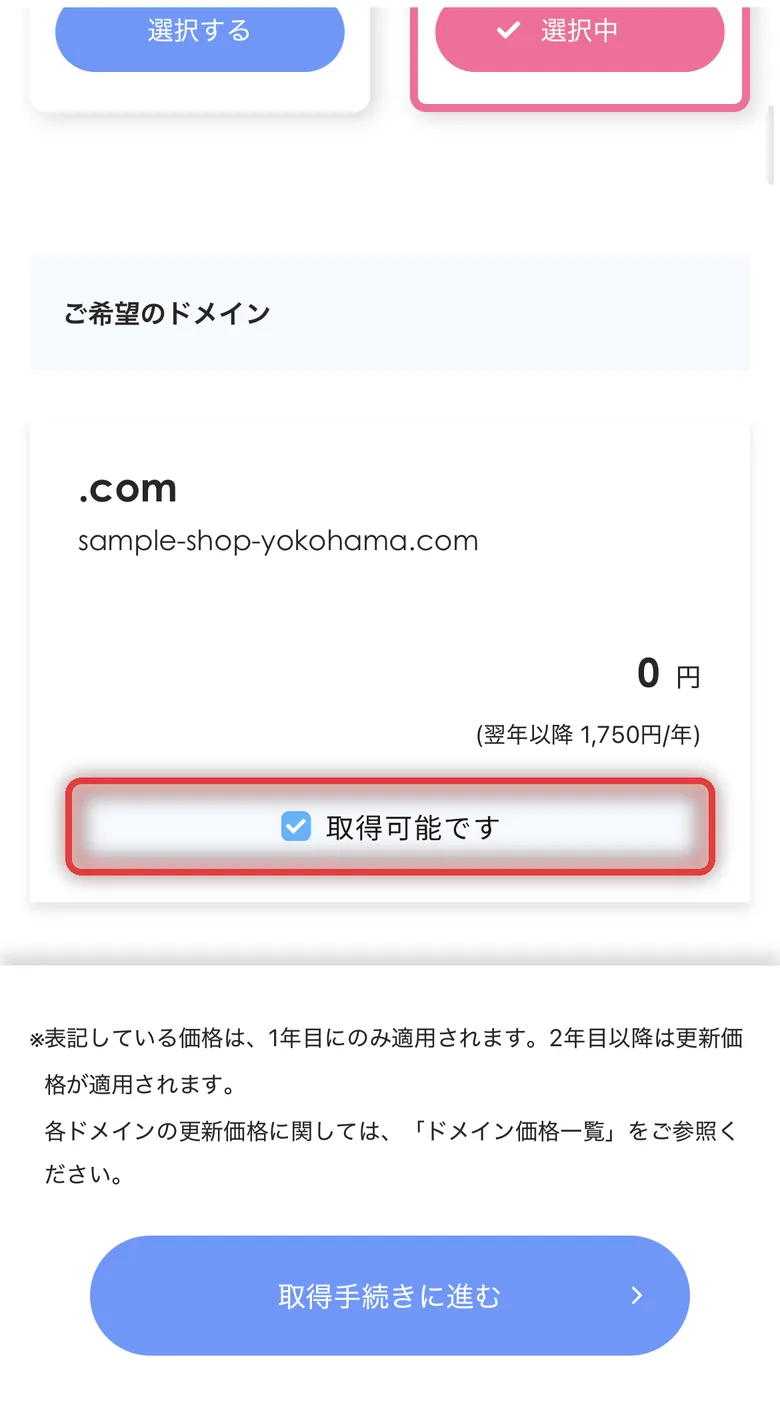
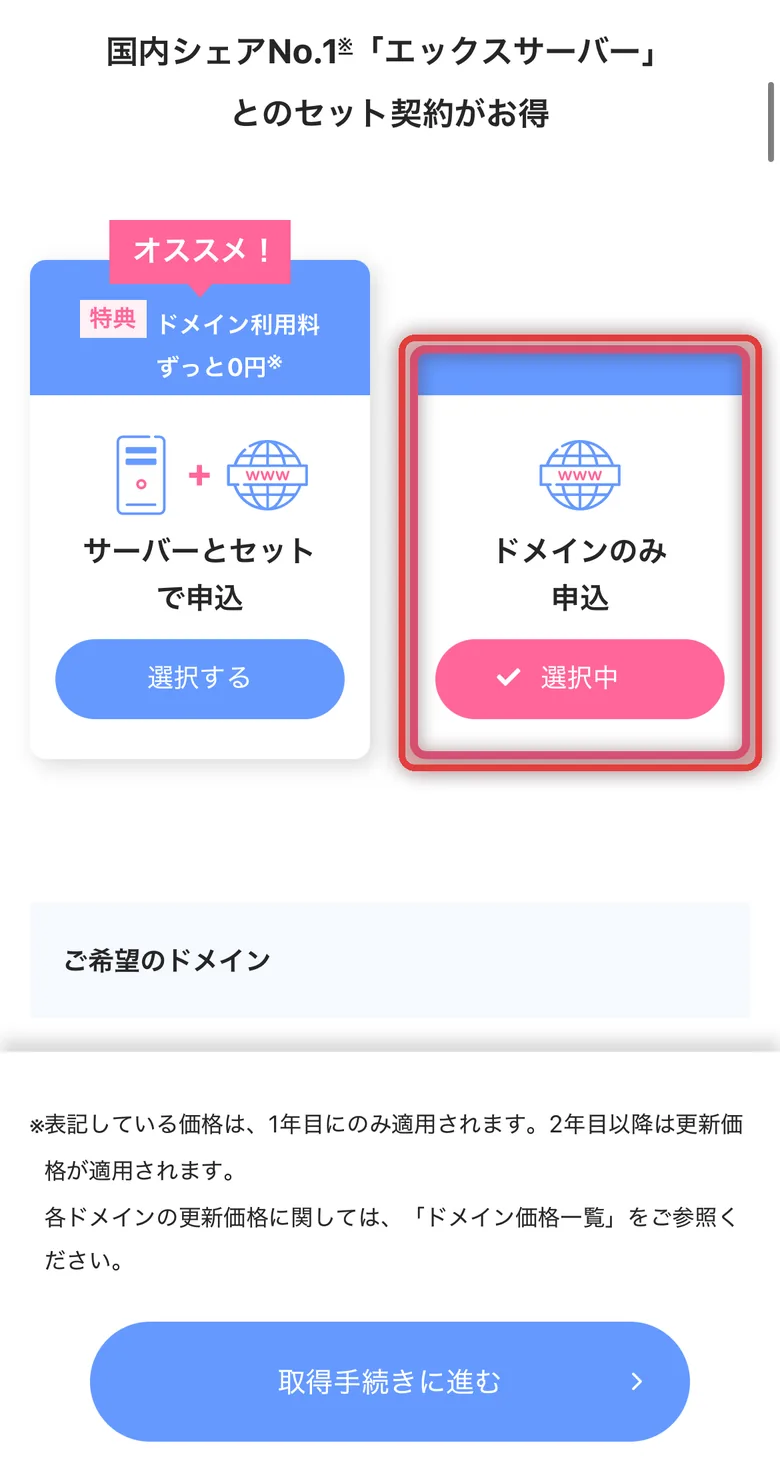
Guide: swap STEP 1 items 3 and 4 to match screen order
Claude-Session: https://claude.ai/code/session_01QtRvDZe1HGyMR9e2ztSiZN

diff --git a/guide/index.html b/guide/index.html
@@ -141,17 +141,17 @@
           </li>
           <li class="g-item">
             <div class="g-item__body">
-              <p class="g-item__text">お伝えしたドメインが表示されたら、「取得可能です」にチェックを入れます。</p>
-              <p class="g-item__sub">ドメイン名が、お伝えしたものと1文字も違わないか確認してください。</p>
+              <p class="g-item__text">画面の上に出てくる「ドメインのみ申込」を選びます。</p>
+              <p class="g-item__sub">「サーバーとセットで申込」は選ばないでください。サーバーはYU DESIGNが無料で用意します。</p>
             </div>
-            <figure class="g-shot g-shot--img"><img src="images/step1-3.webp?v=2" alt="検索結果の画面。sample-shop-yokohama.comの「取得可能です」のチェック欄が赤い枠で囲まれている" width="780" height="1427" loading="lazy" decoding="async"></figure>
+            <figure class="g-shot g-shot--img"><img src="images/step1-3.webp?v=3" alt="申込方法の選択画面。「ドメインのみ申込」が赤い枠で囲まれている" width="780" height="1473" loading="lazy" decoding="async"></figure>
           </li>
           <li class="g-item">
             <div class="g-item__body">
-              <p class="g-item__text">「ドメインのみ申込」が選ばれていることを確認して、「取得手続きに進む」を押します。</p>
-              <p class="g-item__sub">「サーバーとセットで申込」は選ばないでください。サーバーはYU DESIGNが無料で用意します。</p>
+              <p class="g-item__text">下にスクロールして、お伝えしたドメインの「取得可能です」にチェックを入れ、「取得手続きに進む」を押します。</p>
+              <p class="g-item__sub">ドメイン名が、お伝えしたものと1文字も違わないか確認してください。</p>
             </div>
-            <figure class="g-shot g-shot--img"><img src="images/step1-4.webp?v=2" alt="申込方法の選択画面。「ドメインのみ申込」と「取得手続きに進む」ボタンが赤い枠で囲まれている" width="780" height="1427" loading="lazy" decoding="async"></figure>
+            <figure class="g-shot g-shot--img"><img src="images/step1-4.webp?v=3" alt="検索結果の画面。「取得可能です」のチェック欄と「取得手続きに進む」ボタンが赤い枠で囲まれている" width="780" height="1427" loading="lazy" decoding="async"></figure>
           </li>
           <li class="g-item">
             <div class="g-item__body">
